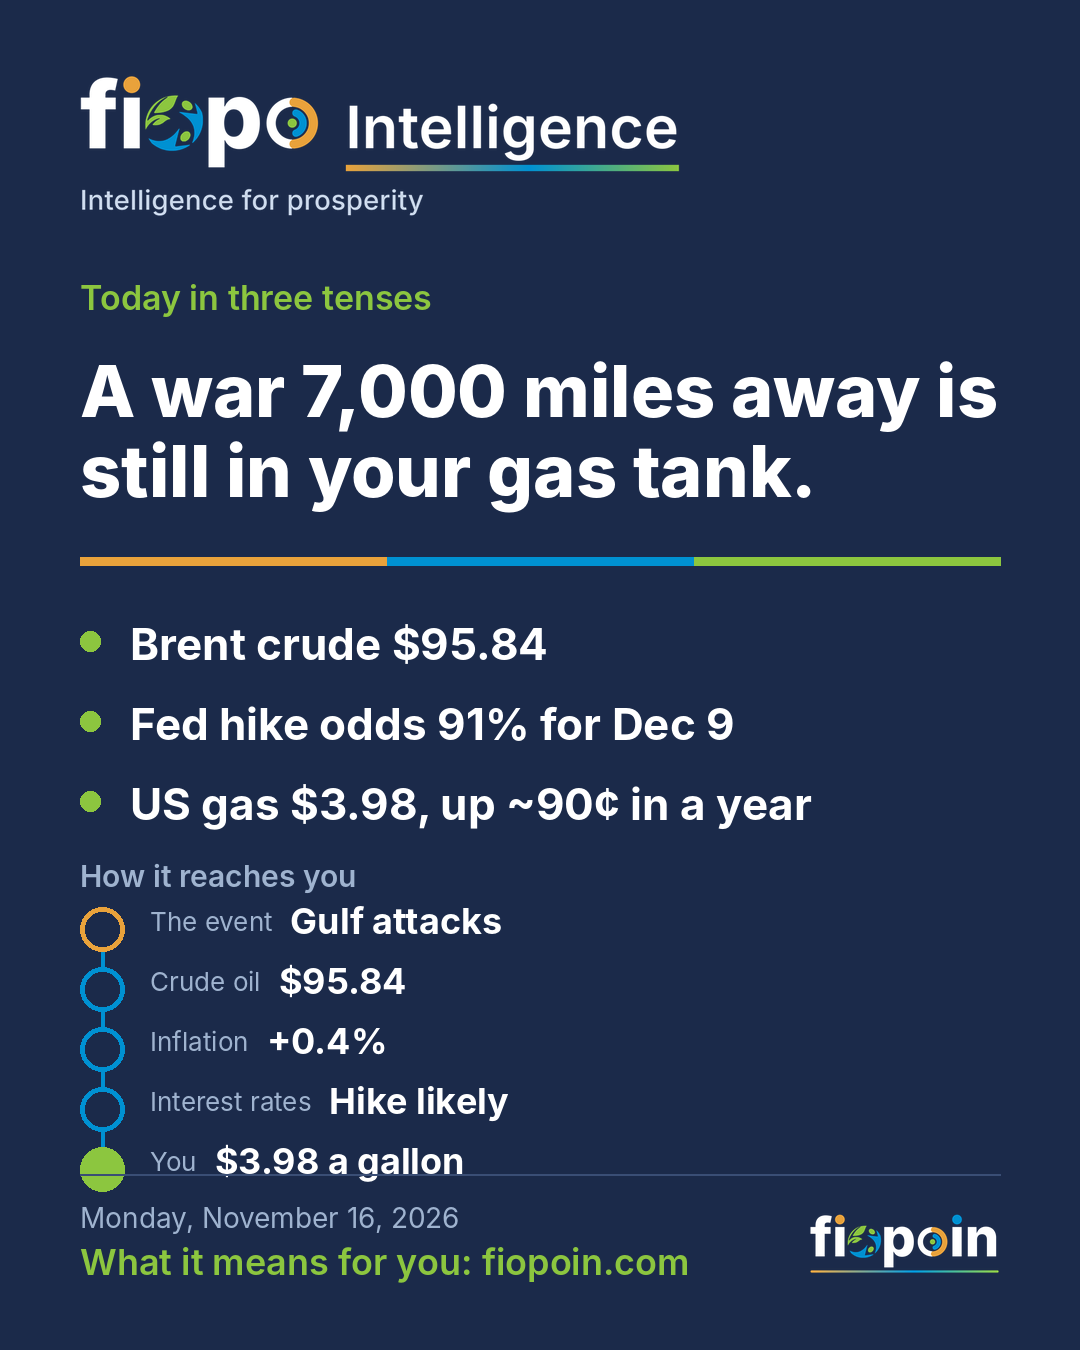
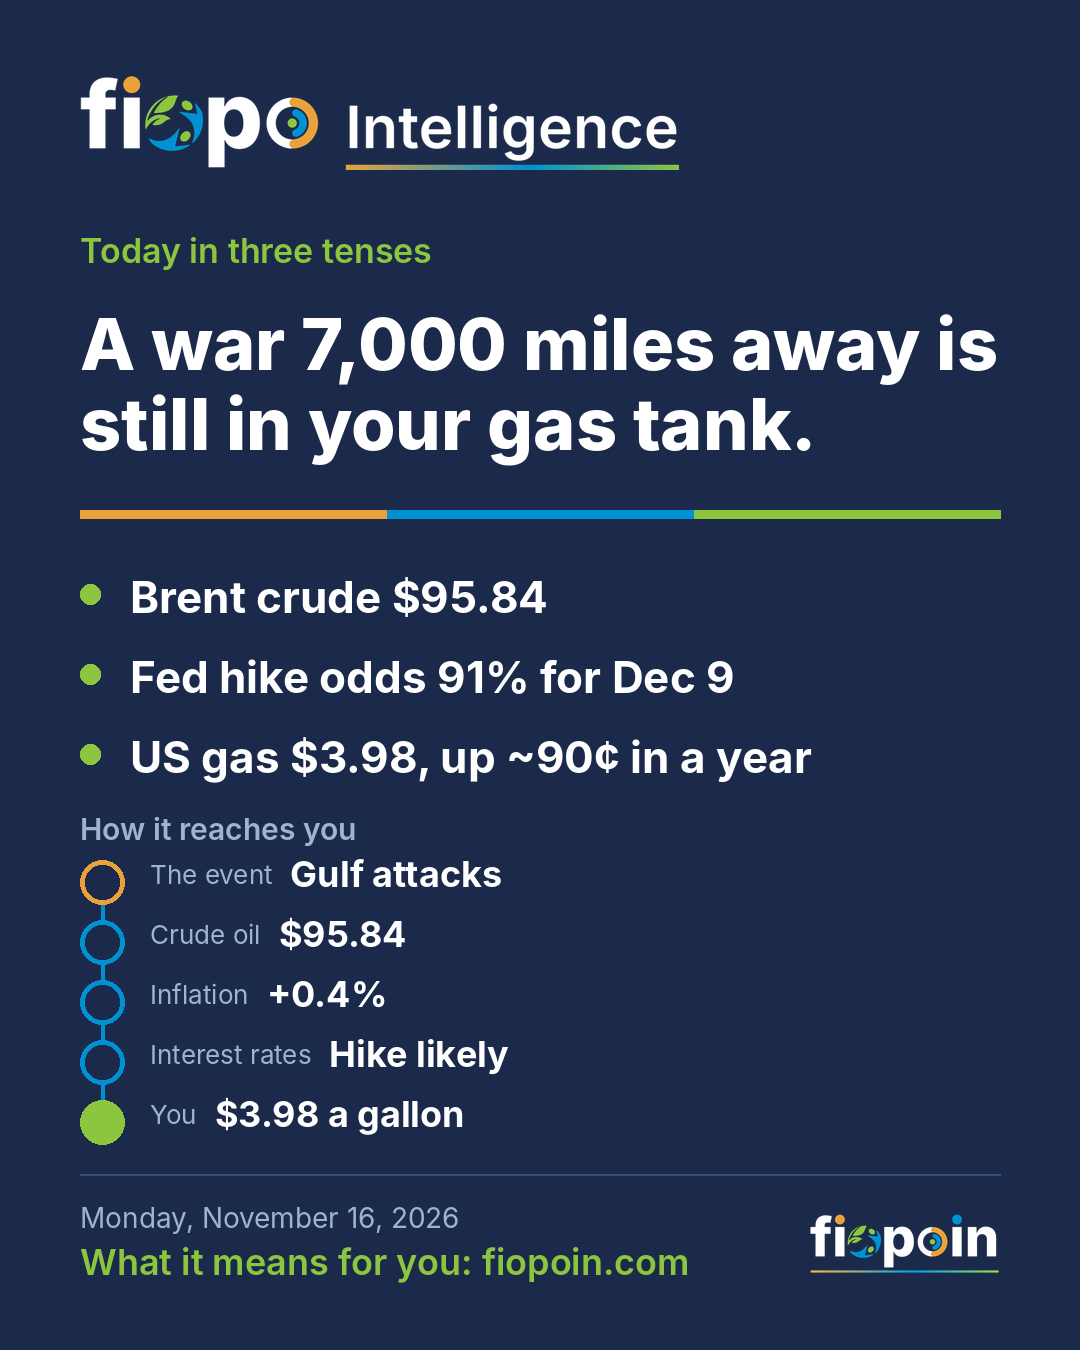
FIOPO Intelligence only at top, no tagline; cache-bust stylesheet
Claude-Session: https://claude.ai/code/session_01VeWbxvTfRf9SyHYd2c63qA

Changed region(s): [[0.0611, 0.1244, 0.9167, 0.9022]]

diff --git a/archive/index.html b/archive/index.html
@@ -1,6 +1,6 @@
 <!DOCTYPE html><html lang="en"><head><meta charset="utf-8"><meta name="viewport" content="width=device-width, initial-scale=1">
-<title>Past editions | FIOPO Intelligence</title><link rel="icon" type="image/svg+xml" href="../brand/fiopoin-icon.svg"><link href="https://fonts.googleapis.com/css2?family=Inter:wght@500;600&display=swap" rel="stylesheet"><link rel="stylesheet" href="../assets/style.css"></head>
-<body><header class="top"><div class="wrap"><a class="brand fi" href="../"><span class="fi-r"><img src="../brand/fiopo-white.svg" alt="FIOPO" width="106" height="44"><span class="fi-int">Intelligence</span></span><span class="fi-tag">Intelligence for prosperity</span></a>
+<title>Past editions | FIOPO Intelligence</title><link rel="icon" type="image/svg+xml" href="../brand/fiopoin-icon.svg"><link href="https://fonts.googleapis.com/css2?family=Inter:wght@500;600&display=swap" rel="stylesheet"><link rel="stylesheet" href="../assets/style.css?v=c93054ed"></head>
+<body><header class="top"><div class="wrap"><a class="brand fi" href="../"><span class="fi-r"><img src="../brand/fiopo-white.svg" alt="FIOPO" width="106" height="44"><span class="fi-int">Intelligence</span></span></a>
 <nav class="main"><a href="../">Today</a></nav></div></header>
 <main><section class="block"><div class="wrap"><div class="shead"><h2>Past editions</h2><p>Every morning's brief, kept so you can check our calls against what happened.</p></div>
 <ul class="archive-list"><li><a href="2026-11-16.html">Monday, November 16, 2026</a><br><span>A war 7,000 miles away is still in your gas tank.</span></li></ul></div></section></main>

diff --git a/archive/2026-11-16.html b/archive/2026-11-16.html
@@ -18,13 +18,13 @@
 <link rel="preconnect" href="https://fonts.googleapis.com">
 <link rel="preconnect" href="https://fonts.gstatic.com" crossorigin>
 <link href="https://fonts.googleapis.com/css2?family=Archivo:wdth,wght@62..125,300..800&family=Inter:wght@500;600&display=swap" rel="stylesheet">
-<link rel="stylesheet" href="../assets/style.css">
+<link rel="stylesheet" href="../assets/style.css?v=c93054ed">
 </head>
 <body data-gas-now="3.98" data-gas-year-ago="3.08">
 
 <header class="top">
   <div class="wrap">
-    <a class="brand fi" href="../" aria-label="FIOPO Intelligence home"><span class="fi-r"><img src="../brand/fiopo-white.svg" alt="FIOPO" width="106" height="44"><span class="fi-int">Intelligence</span></span><span class="fi-tag">Intelligence for prosperity</span></a>
+    <a class="brand fi" href="../" aria-label="FIOPO Intelligence home"><span class="fi-r"><img src="../brand/fiopo-white.svg" alt="FIOPO" width="106" height="44"><span class="fi-int">Intelligence</span></span></a>
     <nav class="main" aria-label="Sections">
       <a href="#today">Today</a>
       <a href="#money">Your money</a>
@@ -287,6 +287,6 @@
     </div>
   </div>
 </footer>
-<script src="../assets/calc.js"></script>
+<script src="../assets/calc.js?v=c93054ed"></script>
 </body>
 </html>

diff --git a/index.html b/index.html
@@ -18,13 +18,13 @@
 <link rel="preconnect" href="https://fonts.googleapis.com">
 <link rel="preconnect" href="https://fonts.gstatic.com" crossorigin>
 <link href="https://fonts.googleapis.com/css2?family=Archivo:wdth,wght@62..125,300..800&family=Inter:wght@500;600&display=swap" rel="stylesheet">
-<link rel="stylesheet" href="assets/style.css">
+<link rel="stylesheet" href="assets/style.css?v=c93054ed">
 </head>
 <body data-gas-now="3.98" data-gas-year-ago="3.08">
 
 <header class="top">
   <div class="wrap">
-    <a class="brand fi" href="" aria-label="FIOPO Intelligence home"><span class="fi-r"><img src="brand/fiopo-white.svg" alt="FIOPO" width="106" height="44"><span class="fi-int">Intelligence</span></span><span class="fi-tag">Intelligence for prosperity</span></a>
+    <a class="brand fi" href="" aria-label="FIOPO Intelligence home"><span class="fi-r"><img src="brand/fiopo-white.svg" alt="FIOPO" width="106" height="44"><span class="fi-int">Intelligence</span></span></a>
     <nav class="main" aria-label="Sections">
       <a href="#today">Today</a>
       <a href="#money">Your money</a>
@@ -287,6 +287,6 @@
     </div>
   </div>
 </footer>
-<script src="assets/calc.js"></script>
+<script src="assets/calc.js?v=c93054ed"></script>
 </body>
 </html>

diff --git a/tools/build.py b/tools/build.py
@@ -20,21 +20,23 @@ if not editions:
     raise SystemExit("no content files")
 data = [json.load(open(p)) for p in editions]
 latest = data[-1]
+import hashlib
+V = hashlib.md5((open("assets/style.css").read() + open("assets/calc.js").read()).encode()).hexdigest()[:8]
 
 os.makedirs("archive", exist_ok=True)
 os.makedirs("social", exist_ok=True)
 
-open("index.html", "w").write(page.render(d=latest, root="", archived=False))
+open("index.html", "w").write(page.render(d=latest, root="", archived=False, v=V))
 for d in data:
-    open(f"archive/{d['date']}.html", "w").write(page.render(d=d, root="../", archived=True))
+    open(f"archive/{d['date']}.html", "w").write(page.render(d=d, root="../", archived=True, v=V))
 
 # archive index
 items = "\n".join(
     f'<li><a href="{d["date"]}.html">{html.escape(d["date_long"])}</a><br><span>{html.escape(d["hero"]["headline"])}</span></li>'
     for d in reversed(data))
 arch = f"""<!DOCTYPE html><html lang="en"><head><meta charset="utf-8"><meta name="viewport" content="width=device-width, initial-scale=1">
-<title>Past editions | FIOPO Intelligence</title><link rel="icon" type="image/svg+xml" href="../brand/fiopoin-icon.svg"><link href="https://fonts.googleapis.com/css2?family=Inter:wght@500;600&display=swap" rel="stylesheet"><link rel="stylesheet" href="../assets/style.css"></head>
-<body><header class="top"><div class="wrap"><a class="brand fi" href="../"><span class="fi-r"><img src="../brand/fiopo-white.svg" alt="FIOPO" width="106" height="44"><span class="fi-int">Intelligence</span></span><span class="fi-tag">Intelligence for prosperity</span></a>
+<title>Past editions | FIOPO Intelligence</title><link rel="icon" type="image/svg+xml" href="../brand/fiopoin-icon.svg"><link href="https://fonts.googleapis.com/css2?family=Inter:wght@500;600&display=swap" rel="stylesheet"><link rel="stylesheet" href="../assets/style.css?v={V}"></head>
+<body><header class="top"><div class="wrap"><a class="brand fi" href="../"><span class="fi-r"><img src="../brand/fiopo-white.svg" alt="FIOPO" width="106" height="44"><span class="fi-int">Intelligence</span></span></a>
 <nav class="main"><a href="../">Today</a></nav></div></header>
 <main><section class="block"><div class="wrap"><div class="shead"><h2>Past editions</h2><p>Every morning's brief, kept so you can check our calls against what happened.</p></div>
 <ul class="archive-list">{items}</ul></div></section></main>

diff --git a/CLAUDE.md b/CLAUDE.md
@@ -24,6 +24,6 @@ Story ids "money" and "world" must exist (the nav links to them).
 Commit as user "fiopoin" and push to main. GitHub Pages deploys within about a minute.
 
 ## Brand
-- Primary identity at the top of every page and social graphic: FIOPO Intelligence, with the tagline "Intelligence for prosperity". Header lockup = `brand/fiopo-white.svg` + "Intelligence" (Inter SemiBold, ripple underline) + tagline.
+- Primary identity at the top of every page and social graphic: FIOPO Intelligence only (no tagline at the top). Header lockup = `brand/fiopo-white.svg` + "Intelligence" (Inter SemiBold, ripple underline). The tagline "Intelligence for prosperity" appears only in the page title and footer.
 - "fiopoin" means FIOPO Intelligence (FIOPO + IN). The fiopoin wordmark (`brand/fiopoin-logo-white.svg`, `brand/fiopoin-logo-navy.svg`) is the secondary mark: footer, signup section, bottom corner of social graphics, favicon (`brand/fiopoin-icon.svg`). Always keep the full name FIOPO Intelligence in titles and metadata.
 - Brand colors: navy #1B2A4A, amber #E9A23B (happened), blue #0091D2 (happening), green #8CC63F (next / what it means for you).
